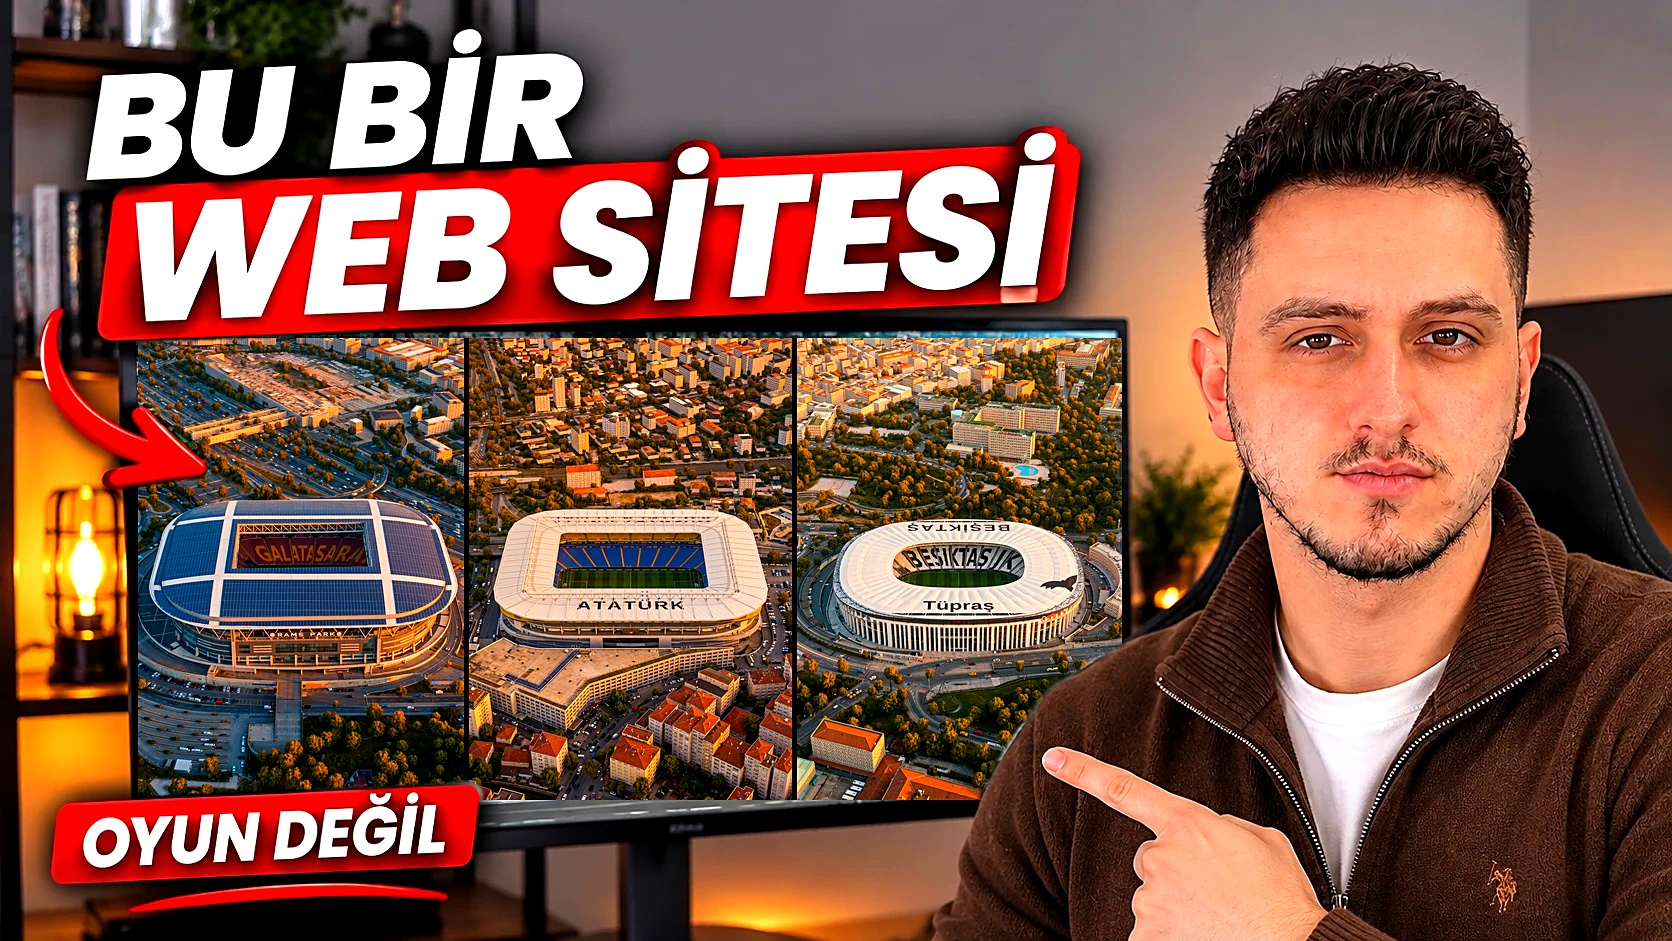
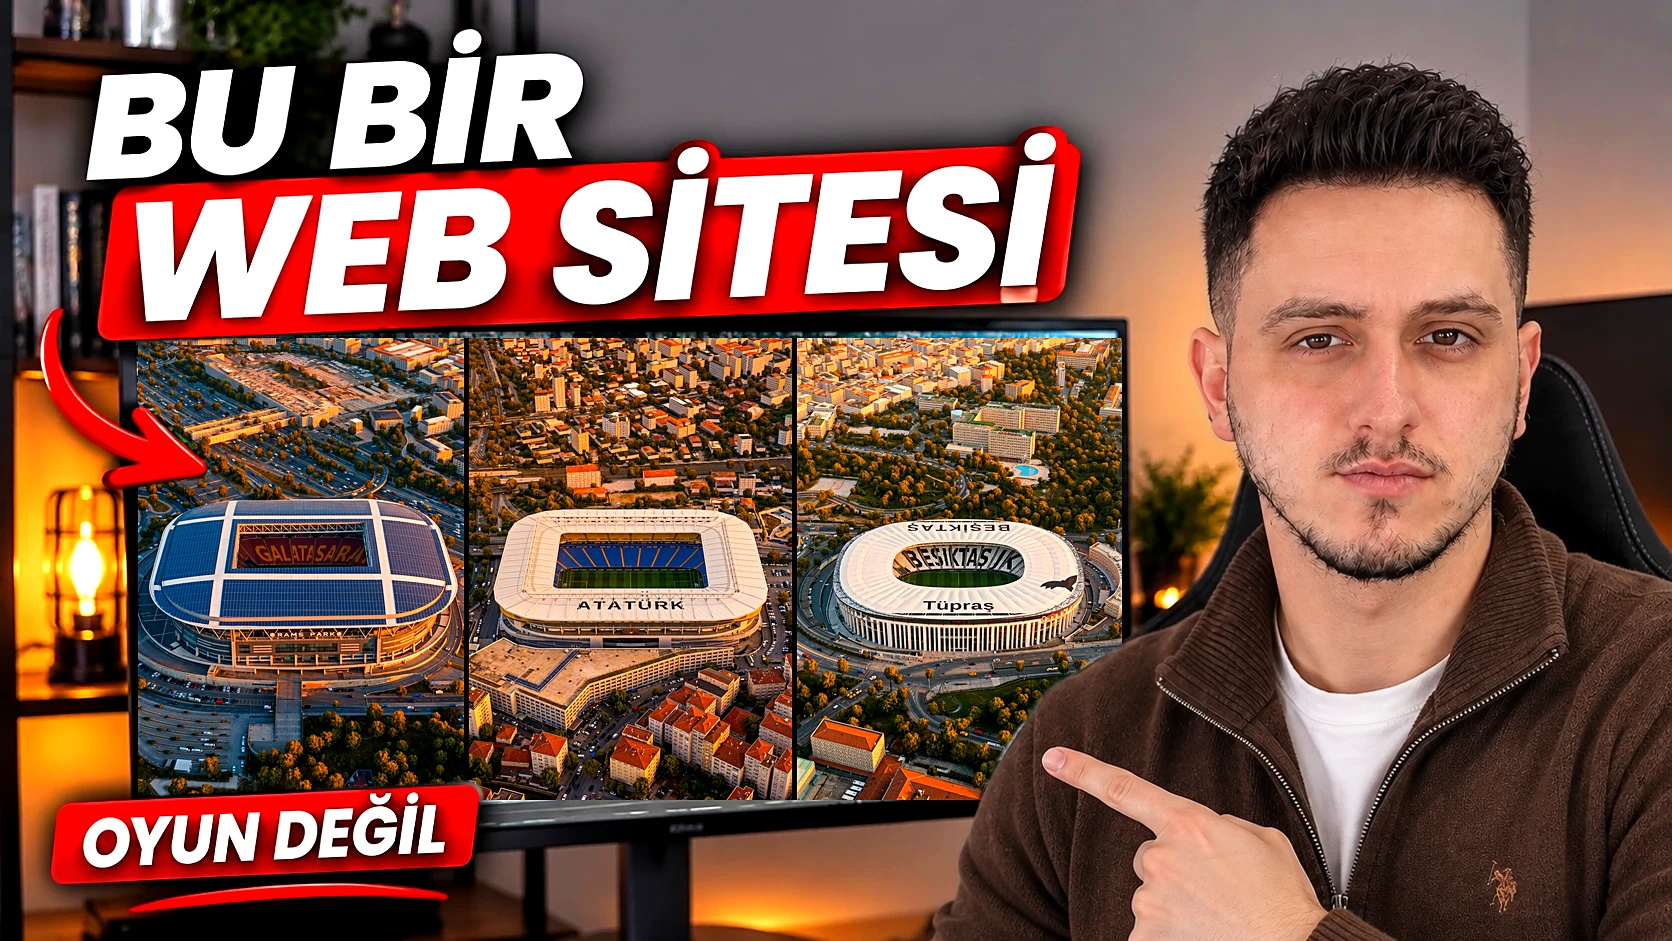
Kapak: renk canlandırma kişiye uygulanmıyor (yüz ve kıyafet orijinal)
Claude-Session: https://claude.ai/code/session_01XvnhNxYsaxgnzaAf9fhBXd

diff --git a/stadium/video/kapak_kullanici.py b/stadium/video/kapak_kullanici.py
@@ -30,9 +30,11 @@ e = np.asarray(ekran).astype(float)
 bolge = yeni[Y0:Y1, X0:X1]; k = koru[Y0:Y1, X0:X1, None]
 yeni[Y0:Y1, X0:X1] = e * (1 - k) + bolge * k
 out = Image.fromarray(np.clip(yeni, 0, 255).astype(np.uint8))
-# canlılık: doygunluk, kontrast, hafif netlik
-out = ImageEnhance.Color(out).enhance(1.28); out = ImageEnhance.Contrast(out).enhance(1.10); out = ImageEnhance.Brightness(out).enhance(1.03)
-out = out.filter(ImageFilter.UnsharpMask(1.8, 55, 2))
+# canlılık yalnız ekrana ve odaya: kişi (yüz, kıyafet, el) orijinal haliyle kalır
+canli = ImageEnhance.Color(out).enhance(1.28); canli = ImageEnhance.Contrast(canli).enhance(1.10); canli = ImageEnhance.Brightness(canli).enhance(1.03)
+canli = canli.filter(ImageFilter.UnsharpMask(1.8, 55, 2))
+km_kisi = np.asarray(kisi.filter(ImageFilter.GaussianBlur(2))).astype(float)[..., None] / 255
+out = Image.fromarray(np.clip(np.asarray(canli).astype(float) * (1 - km_kisi) + np.asarray(out).astype(float) * km_kisi, 0, 255).astype(np.uint8))
 out.save(f"{K}/kapak_H_kullanici_3stat.jpg", quality=95)
 out.resize((1280, 720), Image.LANCZOS).save(f"{K}/kapak_H_kullanici_3stat_1280.jpg", quality=95)
 print("ok")
